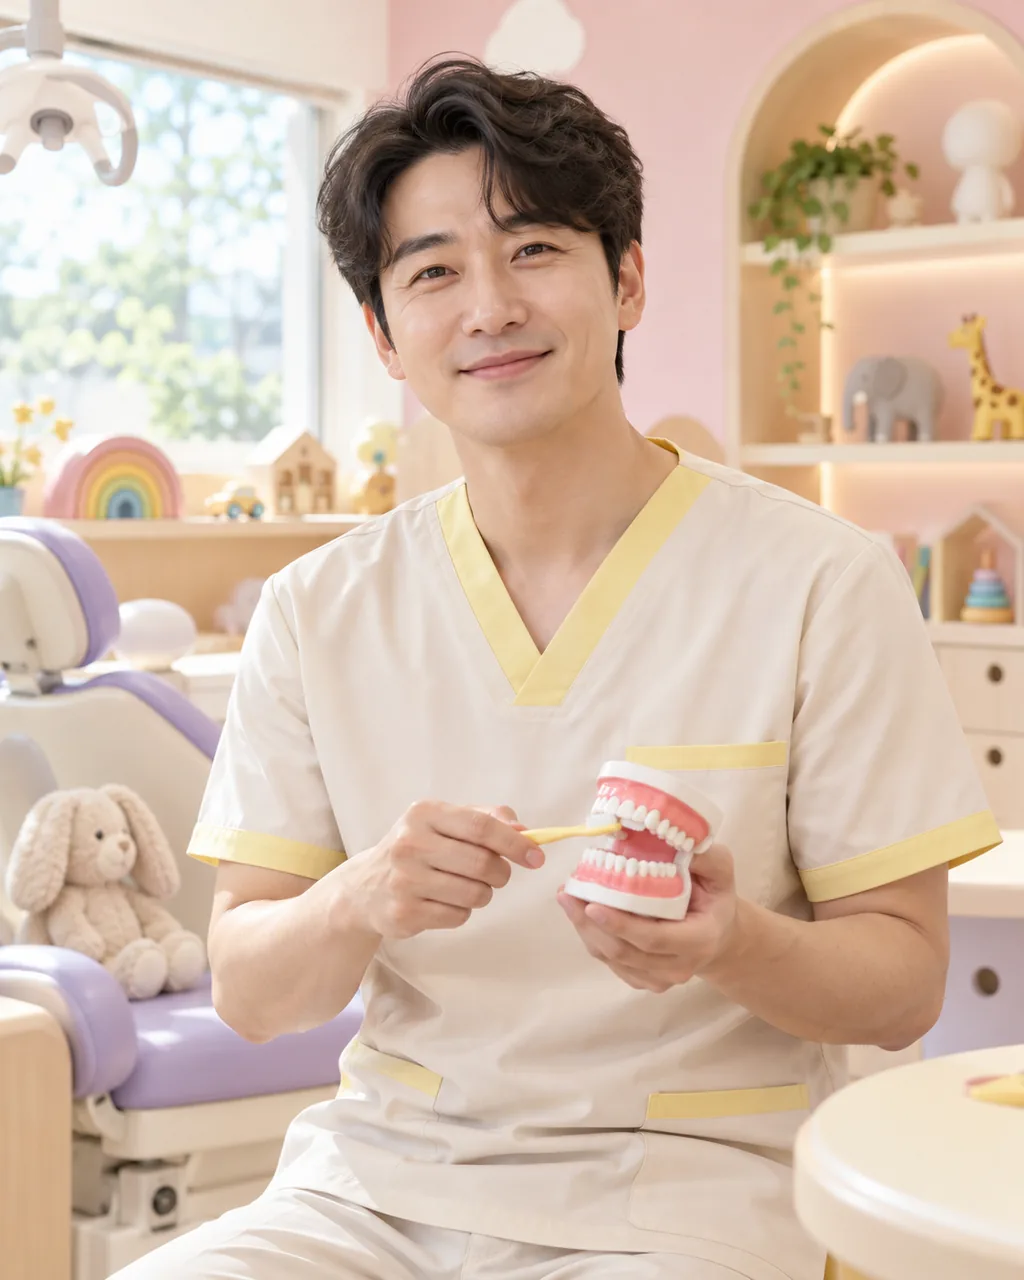
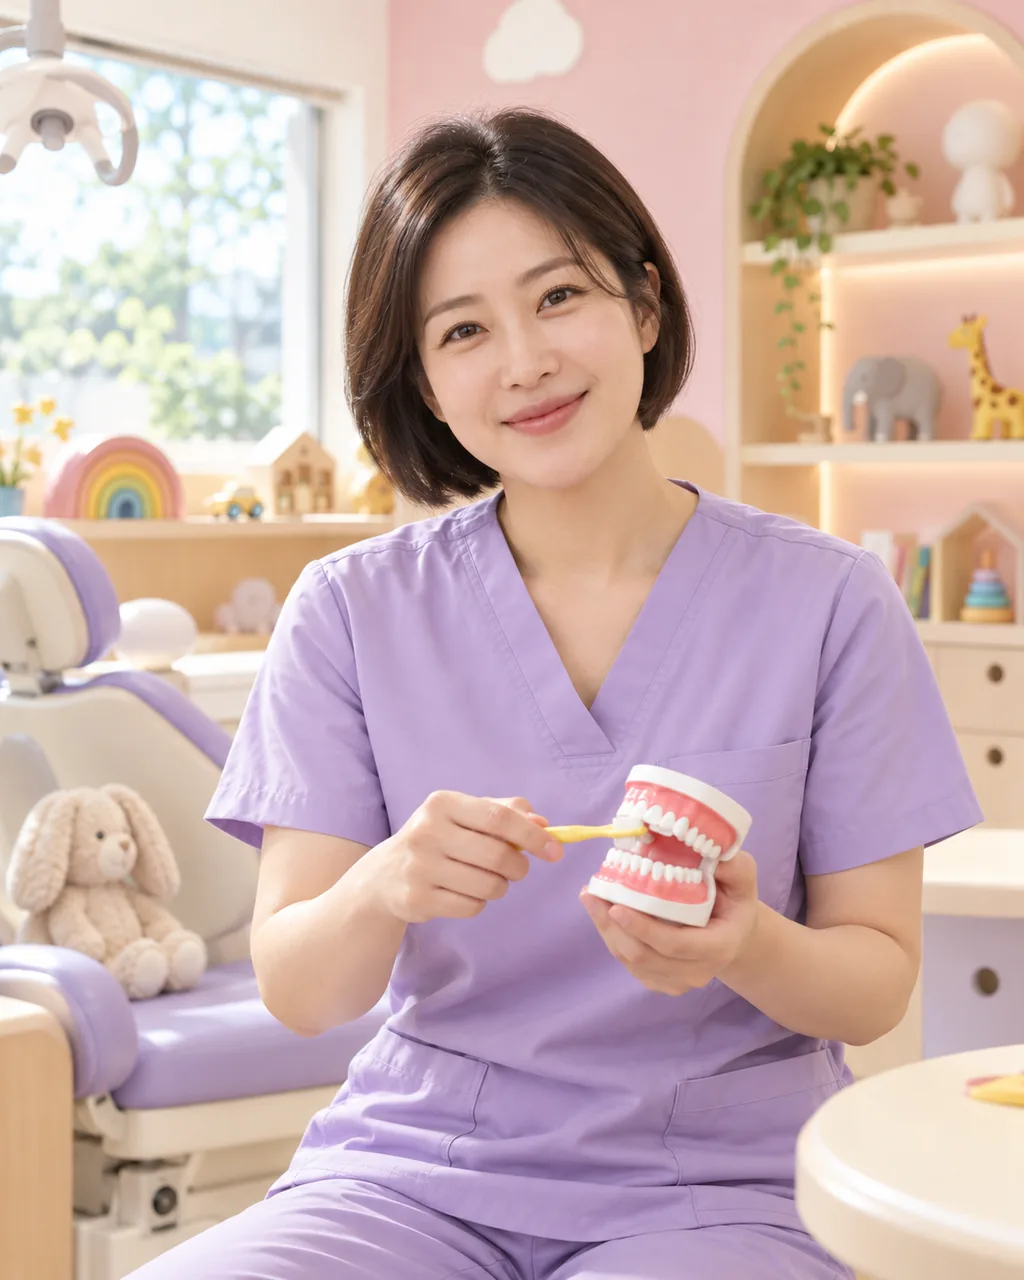
fix(bloom): update female dentist portrait and align space photo heights

diff --git a/concepts/medical-dental/bloom/care/index.html b/concepts/medical-dental/bloom/care/index.html
@@ -8,10 +8,10 @@
 <meta name="description" content="아이 건강보험, 비급여 진료비, 진료시간, 오시는 길, 상담 신청.">
 <link rel="preconnect" href="https://fonts.googleapis.com"><link rel="preconnect" href="https://fonts.gstatic.com" crossorigin>
 <link href="https://fonts.googleapis.com/css2?family=Gowun+Dodum&family=Noto+Sans+KR:wght@400;500;700;800&display=swap" rel="stylesheet">
-<link rel="stylesheet" href="../assets/site.css?v=20261020">
+<link rel="stylesheet" href="../assets/site.css?v=20261025-2">
 </head>
 <body data-page="care" data-root="../">
 <main class="wrap"><div class="subhead"><div><span class="k">COST · CONSULT</span><h1>비용 · 상담</h1><p>치료 전에 비용을 먼저 설명드리고 보호자가 동의한 뒤 진료해요.</p></div><svg class="big" viewBox="0 0 100 110" aria-hidden="true"><path d="M28 14c-12 0-20 9-20 22 0 16 8 22 11 40 2 14 6 22 11 22 7 0 6-20 20-20s13 20 20 20c5 0 9-8 11-22 3-18 11-24 11-40 0-13-8-22-20-22-9 0-14 5-22 5S37 14 28 14Z" fill="#fff" stroke="#2a2f63" stroke-width="3"/><circle cx="38" cy="51" r="3.6" fill="#2a2f63"/><circle cx="62" cy="51" r="3.6" fill="#2a2f63"/><ellipse cx="30" cy="62" rx="6" ry="4" fill="#ffb8c8"/><ellipse cx="70" cy="62" rx="6" ry="4" fill="#ffb8c8"/><path d="M41 63q9 9 18 0" stroke="#2a2f63" stroke-width="3" fill="none" stroke-linecap="round"/></svg></div><section style="padding-top:24px"><div class="care"><div class="box" id="cost"><h3>아이가 받을 수 있는 건강보험</h3><ul class="kins"><li><b>18~29개월</b>영유아 구강검진 1차</li><li><b>42~65개월</b>영유아 구강검진 2 · 3차</li><li><b>만 12세 이하</b>영구치 충치 레진 치료</li><li><b>만 18세 이하</b>충치 없는 큰어금니 홈메우기</li><li><b>모든 나이</b>젖니 빼기 · 유치 신경치료 · 다친 이 진료</li></ul><p class="fine">조건만 안내해요. 적용 여부와 본인부담은 국민건강보험공단 기준으로 결정돼요(1577-1000).</p></div><div class="box"><h3>비급여 진료비 (예시)</h3><table><tbody id="fees"></tbody></table><p class="fine">금액은 데모용 예시예요. 실제 사이트는 원내 게시 금액과 같게 표시하며, 건강보험심사평가원 비급여 진료비 정보에서도 확인할 수 있어요.</p></div><div class="box hours" id="hours"><h3>진료시간</h3><dl id="hl"></dl></div><div class="box mapc" id="mapc"><h3>오시는 길</h3><svg viewBox="0 0 320 190" role="img" aria-label="우리아이치과 약도 (가상)"><rect width="320" height="190" fill="var(--li-l)"/><circle cx="40" cy="40" r="22" fill="var(--mt)"/><circle cx="280" cy="40" r="16" fill="var(--pk)"/><path d="M0 128H320" stroke="var(--card)" stroke-width="22" stroke-linecap="round"/><path d="M196 0V190" stroke="var(--card)" stroke-width="16"/><rect x="208" y="142" width="96" height="32" rx="16" fill="var(--ink)"/><text x="256" y="163" fill="var(--bg)" font-size="11" text-anchor="middle" font-family="sans-serif">가람역 1번 출구</text><circle cx="130" cy="88" r="14" fill="var(--lm)" stroke="var(--ink)" stroke-width="2"/><circle cx="130" cy="88" r="4" fill="var(--ink)"/><text x="130" y="64" text-anchor="middle" font-size="12" font-weight="700" fill="var(--ink)" font-family="sans-serif">우리아이치과 3층</text></svg><p class="fine" id="addr"></p></div><div class="box full" id="consult"><h3>상담 신청</h3><div id="formw"></div></div></div></section><section><div class="sh"><h2>보호자들이 자주 물어요</h2></div><div id="fq"></div></section></main>
-<script src="../assets/site.js?v=20261020"></script>
+<script src="../assets/site.js?v=20261025-2"></script>
 </body>
 </html>

diff --git a/concepts/medical-dental/bloom/first/index.html b/concepts/medical-dental/bloom/first/index.html
@@ -8,10 +8,10 @@
 <meta name="description" content="첫 방문 흐름, 준비물, 웃음가스 · 진정 치료 안내.">
 <link rel="preconnect" href="https://fonts.googleapis.com"><link rel="preconnect" href="https://fonts.gstatic.com" crossorigin>
 <link href="https://fonts.googleapis.com/css2?family=Gowun+Dodum&family=Noto+Sans+KR:wght@400;500;700;800&display=swap" rel="stylesheet">
-<link rel="stylesheet" href="../assets/site.css?v=20261020">
+<link rel="stylesheet" href="../assets/site.css?v=20261025-2">
 </head>
 <body data-page="first" data-root="../">
 <main class="wrap"><div class="subhead"><div><span class="k">FIRST VISIT</span><h1>처음 오는 날</h1><p>“무섭지 않았어”라는 첫 기억이 다음 방문을 쉽게 만들어요. 첫날은 이렇게 흘러가요.</p></div><svg class="big" viewBox="0 0 100 110" aria-hidden="true"><path d="M28 14c-12 0-20 9-20 22 0 16 8 22 11 40 2 14 6 22 11 22 7 0 6-20 20-20s13 20 20 20c5 0 9-8 11-22 3-18 11-24 11-40 0-13-8-22-20-22-9 0-14 5-22 5S37 14 28 14Z" fill="#fff" stroke="#2a2f63" stroke-width="3"/><circle cx="38" cy="51" r="3.6" fill="#2a2f63"/><circle cx="62" cy="51" r="3.6" fill="#2a2f63"/><ellipse cx="30" cy="62" rx="6" ry="4" fill="#ffb8c8"/><ellipse cx="70" cy="62" rx="6" ry="4" fill="#ffb8c8"/><path d="M41 63q9 9 18 0" stroke="#2a2f63" stroke-width="3" fill="none" stroke-linecap="round"/></svg></div><section style="padding-top:24px"><div class="frow"><ol class="fd" id="fd"></ol><div><div class="box"><h3>전날 밤 준비물 체크</h3><div class="ck" id="ck"></div><p id="ckn" aria-live="polite"></p></div><div class="fph" id="fphotos"></div></div></div></section><section><div class="sh"><h2>많이 무서워한다면</h2><p>아이 상태와 치료 범위를 보고 보호자와 함께 정해요. 모든 아이에게 필요한 방법은 아니에요.</p></div><div class="sed" id="sed"></div><div class="next"><b>우리 아이 성향을 미리 알려 주세요</b><a href="../care/#consult">상담 신청 →</a></div></section></main>
-<script src="../assets/site.js?v=20261020"></script>
+<script src="../assets/site.js?v=20261025-2"></script>
 </body>
 </html>

diff --git a/concepts/medical-dental/bloom/team/index.html b/concepts/medical-dental/bloom/team/index.html
@@ -8,10 +8,10 @@
 <meta name="description" content="소아치과 전문의와 아이 눈높이 공간.">
 <link rel="preconnect" href="https://fonts.googleapis.com"><link rel="preconnect" href="https://fonts.gstatic.com" crossorigin>
 <link href="https://fonts.googleapis.com/css2?family=Gowun+Dodum&family=Noto+Sans+KR:wght@400;500;700;800&display=swap" rel="stylesheet">
-<link rel="stylesheet" href="../assets/site.css?v=20261020">
+<link rel="stylesheet" href="../assets/site.css?v=20261025-2">
 </head>
 <body data-page="team" data-root="../">
 <main class="wrap"><div class="subhead"><div><span class="k">TEAM · SPACE</span><h1>선생님 · 공간</h1><p>소아치과 전문의 두 명이 아이를 처음부터 끝까지 맡아요. 경력 표기는 예시, 사진은 AI 생성 예시예요.</p></div><svg class="big" viewBox="0 0 100 110" aria-hidden="true"><path d="M28 14c-12 0-20 9-20 22 0 16 8 22 11 40 2 14 6 22 11 22 7 0 6-20 20-20s13 20 20 20c5 0 9-8 11-22 3-18 11-24 11-40 0-13-8-22-20-22-9 0-14 5-22 5S37 14 28 14Z" fill="#fff" stroke="#2a2f63" stroke-width="3"/><circle cx="38" cy="51" r="3.6" fill="#2a2f63"/><circle cx="62" cy="51" r="3.6" fill="#2a2f63"/><ellipse cx="30" cy="62" rx="6" ry="4" fill="#ffb8c8"/><ellipse cx="70" cy="62" rx="6" ry="4" fill="#ffb8c8"/><path d="M41 63q9 9 18 0" stroke="#2a2f63" stroke-width="3" fill="none" stroke-linecap="round"/></svg></div><section style="padding-top:8px"><div id="dl"></div></section><section><div class="sh"><h2>아이 눈높이에 맞춘 공간</h2></div><div class="sp-g" id="sp"></div><div class="next"><b>직접 둘러보고 싶다면</b><a href="../care/#mapc">오시는 길 →</a></div></section></main>
-<script src="../assets/site.js?v=20261020"></script>
+<script src="../assets/site.js?v=20261025-2"></script>
 </body>
 </html>

diff --git a/concepts/medical-dental/bloom/age/index.html b/concepts/medical-dental/bloom/age/index.html
@@ -8,10 +8,10 @@
 <meta name="description" content="0세부터 18세까지 나이별로 살펴볼 것과 치과 · 집에서 할 일.">
 <link rel="preconnect" href="https://fonts.googleapis.com"><link rel="preconnect" href="https://fonts.gstatic.com" crossorigin>
 <link href="https://fonts.googleapis.com/css2?family=Gowun+Dodum&family=Noto+Sans+KR:wght@400;500;700;800&display=swap" rel="stylesheet">
-<link rel="stylesheet" href="../assets/site.css?v=20261020">
+<link rel="stylesheet" href="../assets/site.css?v=20261025-2">
 </head>
 <body data-page="age" data-root="../">
 <main class="wrap"><div class="subhead"><div><span class="k">BY AGE</span><h1>나이별 진료</h1><p>아이의 이는 나이마다 고민이 달라요. 지금 살펴볼 것, 치과에서 하는 일, 집에서 할 일을 한눈에 보세요.</p></div><svg class="big" viewBox="0 0 100 110" aria-hidden="true"><path d="M28 14c-12 0-20 9-20 22 0 16 8 22 11 40 2 14 6 22 11 22 7 0 6-20 20-20s13 20 20 20c5 0 9-8 11-22 3-18 11-24 11-40 0-13-8-22-20-22-9 0-14 5-22 5S37 14 28 14Z" fill="#fff" stroke="#2a2f63" stroke-width="3"/><circle cx="38" cy="51" r="3.6" fill="#2a2f63"/><circle cx="62" cy="51" r="3.6" fill="#2a2f63"/><ellipse cx="30" cy="62" rx="6" ry="4" fill="#ffb8c8"/><ellipse cx="70" cy="62" rx="6" ry="4" fill="#ffb8c8"/><path d="M41 63q9 9 18 0" stroke="#2a2f63" stroke-width="3" fill="none" stroke-linecap="round"/></svg></div><section style="padding-top:24px"><div class="tl" id="tl"></div><div class="next"><b>우리 아이 나이에 맞는 진료를 고르고 싶다면</b><a href="../#finder">맞춤 안내 받기 →</a></div></section></main>
-<script src="../assets/site.js?v=20261020"></script>
+<script src="../assets/site.js?v=20261025-2"></script>
 </body>
 </html>

diff --git a/concepts/medical-dental/bloom/treat/index.html b/concepts/medical-dental/bloom/treat/index.html
@@ -8,10 +8,10 @@
 <meta name="description" content="아이에게 건넬 말과 함께 보는 진료별 순서 · 주의사항.">
 <link rel="preconnect" href="https://fonts.googleapis.com"><link rel="preconnect" href="https://fonts.gstatic.com" crossorigin>
 <link href="https://fonts.googleapis.com/css2?family=Gowun+Dodum&family=Noto+Sans+KR:wght@400;500;700;800&display=swap" rel="stylesheet">
-<link rel="stylesheet" href="../assets/site.css?v=20261020">
+<link rel="stylesheet" href="../assets/site.css?v=20261025-2">
 </head>
 <body data-page="treat" data-root="../">
 <main class="wrap"><div class="subhead"><div><span class="k">TREATMENT</span><h1>진료 안내</h1><p>진료마다 아이에게 건넬 말, 순서, 주의할 점을 함께 적었어요. 기간과 결과는 아이마다 달라요.</p></div><svg class="big" viewBox="0 0 100 110" aria-hidden="true"><path d="M28 14c-12 0-20 9-20 22 0 16 8 22 11 40 2 14 6 22 11 22 7 0 6-20 20-20s13 20 20 20c5 0 9-8 11-22 3-18 11-24 11-40 0-13-8-22-20-22-9 0-14 5-22 5S37 14 28 14Z" fill="#fff" stroke="#2a2f63" stroke-width="3"/><circle cx="38" cy="51" r="3.6" fill="#2a2f63"/><circle cx="62" cy="51" r="3.6" fill="#2a2f63"/><ellipse cx="30" cy="62" rx="6" ry="4" fill="#ffb8c8"/><ellipse cx="70" cy="62" rx="6" ry="4" fill="#ffb8c8"/><path d="M41 63q9 9 18 0" stroke="#2a2f63" stroke-width="3" fill="none" stroke-linecap="round"/></svg></div><section style="padding-top:24px"><div class="tg" id="tg"></div><div class="next"><b>어떤 진료인지 잘 모르겠다면</b><a href="../#finder">나이 · 고민으로 찾기 →</a></div></section></main>
-<script src="../assets/site.js?v=20261020"></script>
+<script src="../assets/site.js?v=20261025-2"></script>
 </body>
 </html>

diff --git a/concepts/medical-dental/bloom/index.html b/concepts/medical-dental/bloom/index.html
@@ -8,7 +8,7 @@
 <meta name="description" content="0~18세 아이만 진료하는 소아치과. 나이와 고민으로 살펴볼 진료를 안내해요.">
 <link rel="preconnect" href="https://fonts.googleapis.com"><link rel="preconnect" href="https://fonts.gstatic.com" crossorigin>
 <link href="https://fonts.googleapis.com/css2?family=Gowun+Dodum&family=Noto+Sans+KR:wght@400;500;700;800&display=swap" rel="stylesheet">
-<link rel="stylesheet" href="./assets/site.css?v=20261020">
+<link rel="stylesheet" href="./assets/site.css?v=20261025-2">
 </head>
 <body data-page="home" data-root="./">
 <main class="wrap">
@@ -26,6 +26,6 @@
  <section><div class="hrow"><div><div class="sh"><h2>아이 마음을 먼저 보는 선생님</h2></div><div class="hdocs" id="hdocs"></div></div>
   <div class="hstrip" style="grid-template-columns:1fr"><div class="box"><h3>진료시간</h3><dl id="hhours"></dl><p class="fine">낮잠 시간을 피해 예약할 수 있어요.</p></div><div class="box" style="background:var(--lm);color:#3b3000"><h3>궁금한 게 있나요?</h3><p style="margin:0 0 12px">비용 · 건강보험도 미리 확인할 수 있어요.</p><a class="btn p" href="care/#consult">상담 신청</a></div></div></div></section>
 </main>
-<script src="./assets/site.js?v=20261020"></script>
+<script src="./assets/site.js?v=20261025-2"></script>
 </body>
 </html>

diff --git a/concepts/medical-dental/bloom/assets/site.css b/concepts/medical-dental/bloom/assets/site.css
@@ -176,3 +176,6 @@ details.q p{margin:8px 0 0;color:var(--sub)}
  .dock a svg{width:22px;height:22px}.dock a.p{background:var(--lm);color:#3b3000}
  footer .wrap{flex-direction:column;align-items:flex-start}}
 @media (max-width:520px){.hfirst,.sp-g,.ag,.cf .r2{grid-template-columns:1fr}#ages{grid-template-columns:repeat(2,minmax(0,1fr))}.logo{font-size:20px}.logo small{display:none}}
+
+/* Keep all space cards at the same display height. */
+.sp-g .photo{aspect-ratio:3/2!important}
